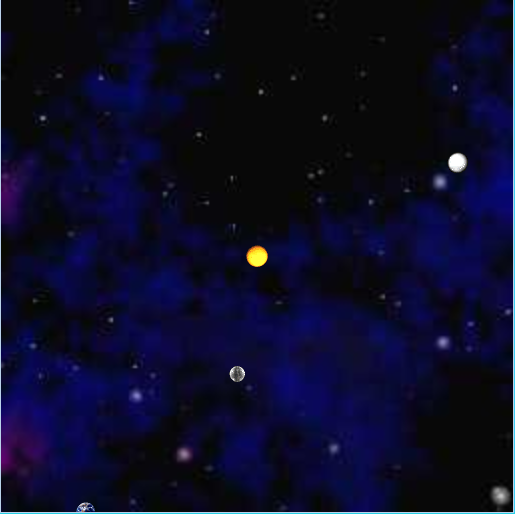
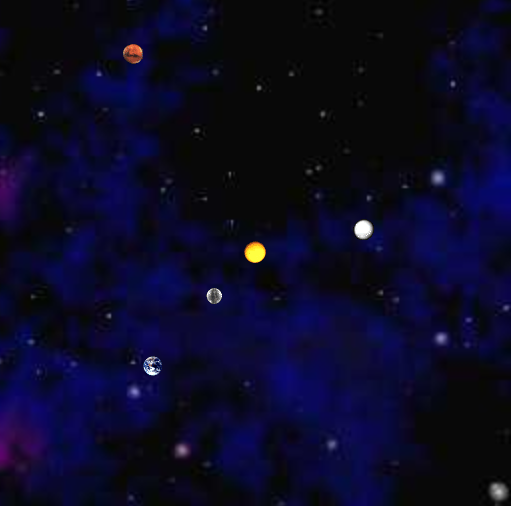
final commit

diff --git a/proj0_NBody/Planet.java b/proj0_NBody/Planet.java
@@ -93,7 +93,7 @@ public class Planet {
 	public void draw(){
 		String planetImg = "images/"+this.imgFileName;
 		//when x=1, it will be right most, y=1 it will at top
-		StdDraw.picture(this.xxPos / 2.50e+11 + 0.5, this.yyPos / 2.50e+11 + 0.5, planetImg);
+		StdDraw.picture(this.xxPos / 5.00e+11 + 0.5, this.yyPos / 5.0e+11 + 0.5, planetImg);
 	}
 	
 }
